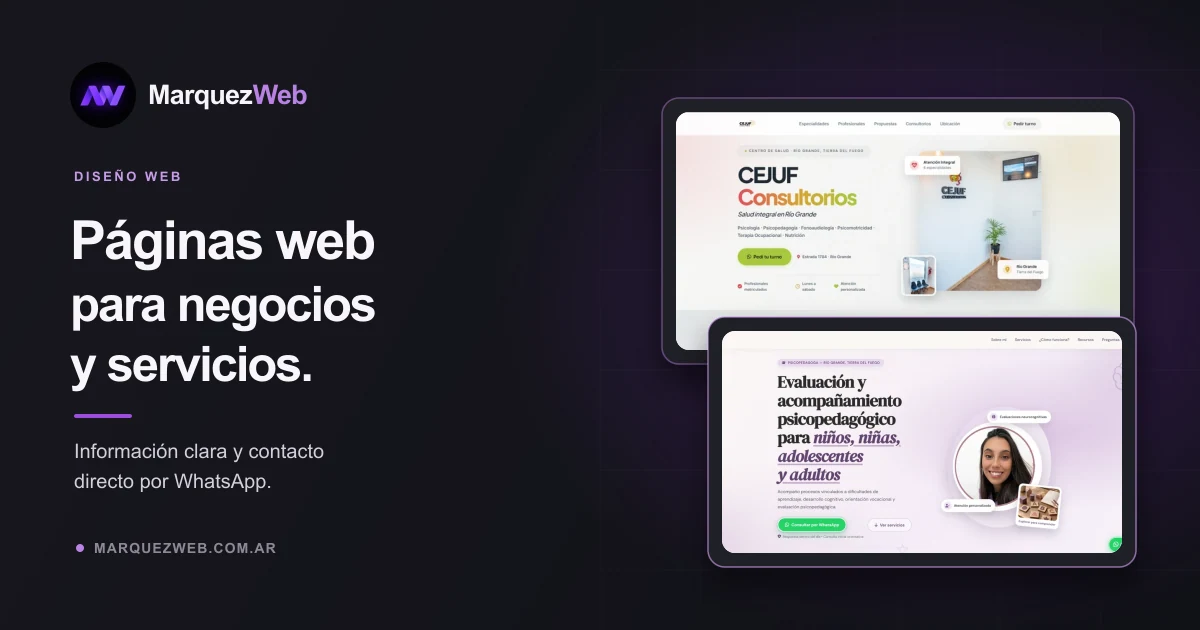
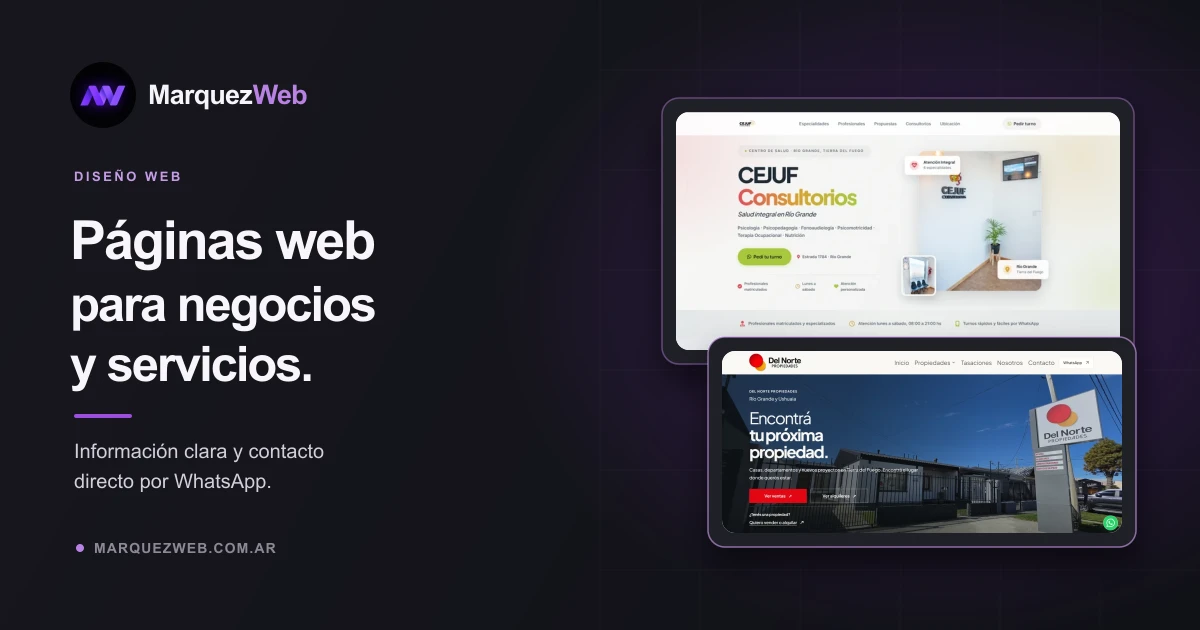
Update hero, social preview and Del Norte testimonial

Changed region(s): [[0.5858, 0.4825, 0.9558, 0.9048]]

diff --git a/index.html b/index.html
@@ -41,14 +41,14 @@
 <meta property="og:url" content="https://marquezweb.com.ar/"/>
 <meta property="og:title" content="MarquezWeb — Páginas web para negocios y servicios"/>
 <meta property="og:description" content="Páginas web para negocios y servicios: presencia propia, contenido claro y contacto directo por WhatsApp."/>
-<meta property="og:image" content="https://marquezweb.com.ar/og-image.webp?v=4"/>
+<meta property="og:image" content="https://marquezweb.com.ar/og-image.webp?v=5"/>
 <meta property="og:image:width" content="1200"/>
 <meta property="og:image:height" content="630"/>
 <meta property="og:image:alt" content="MarquezWeb: páginas web para negocios y servicios, con ejemplos reales de proyectos"/>
 <meta name="twitter:card" content="summary_large_image"/>
 <meta name="twitter:title" content="MarquezWeb — Páginas web para negocios y servicios"/>
 <meta name="twitter:description" content="Páginas web para negocios y servicios: presencia propia, contenido claro y contacto directo por WhatsApp."/>
-<meta name="twitter:image" content="https://marquezweb.com.ar/og-image.webp?v=4"/>
+<meta name="twitter:image" content="https://marquezweb.com.ar/og-image.webp?v=5"/>
 <meta name="twitter:image:alt" content="MarquezWeb: páginas web para negocios y servicios, con ejemplos reales de proyectos"/>
 
 <link rel="icon" href="logo.png"/>
@@ -480,7 +480,7 @@
     }
   }
 </style>
-<link rel="stylesheet" href="visual.css?v=20261027-2"/>
+<link rel="stylesheet" href="visual.css?v=20261027-3"/>
 <script type="application/ld+json">
 {
   "@context": "https://schema.org",
@@ -491,7 +491,7 @@
       "name": "MarquezWeb",
       "url": "https://marquezweb.com.ar/",
       "logo": { "@type": "ImageObject", "url": "https://marquezweb.com.ar/logo.png" },
-      "image": "https://marquezweb.com.ar/og-image.webp?v=4",
+      "image": "https://marquezweb.com.ar/og-image.webp?v=5",
       "description": "Páginas web para negocios y servicios: presencia propia, contenido claro, base preparada para buscadores y contacto directo por WhatsApp.",
       "email": "manuelmarquez2537@gmail.com",
       "telephone": "+54 9 3513 06-6687",
@@ -636,12 +636,12 @@
       <div class="hero-visual order-2 relative hero-visual-in lg:justify-self-end w-full">
         <div class="hero-showcase">
           <figure class="showcase-window showcase-main">
-            <figcaption class="showcase-toolbar"><span class="window-dots" aria-hidden="true"><i></i><i></i><i></i></span><span>CEJUF · Consultorios</span><span class="window-status" aria-hidden="true"></span></figcaption>
+            <figcaption class="showcase-toolbar"><span class="window-dots" aria-hidden="true"><i></i><i></i><i></i></span><a href="https://cejufconsultorios.com.ar/" target="_blank" rel="noopener noreferrer" aria-label="Abrir la web de CEJUF Consultorios">cejufconsultorios.com.ar</a><span class="window-status" aria-hidden="true"></span></figcaption>
             <img src="cejuf-hero.webp" alt="Proyecto real de MarquezWeb: página de CEJUF Consultorios" width="1200" height="563" loading="lazy" fetchpriority="low" decoding="async"/>
           </figure>
           <figure class="showcase-window showcase-secondary">
-            <figcaption class="showcase-toolbar"><span class="window-dots" aria-hidden="true"><i></i><i></i><i></i></span><span>camipsicope.com.ar</span></figcaption>
-            <img src="camipsicope-hero.webp" alt="Proyecto real de MarquezWeb: página de Cami Psicope" width="1200" height="530" loading="lazy" fetchpriority="low" decoding="async"/>
+            <figcaption class="showcase-toolbar"><span class="window-dots" aria-hidden="true"><i></i><i></i><i></i></span><a href="https://delnortepropiedades.com/" target="_blank" rel="noopener noreferrer" aria-label="Abrir la web de Del Norte Propiedades">delnortepropiedades.com</a></figcaption>
+            <img src="del-norte-propiedades-card.webp" alt="Proyecto real de MarquezWeb: página de Del Norte Propiedades" width="1400" height="637" loading="lazy" fetchpriority="low" decoding="async"/>
           </figure>
         </div>
       </div>
@@ -719,7 +719,7 @@
           <p><span class="text-error-alert font-bold block mb-0.5">Problema</span><span class="text-on-surface-variant">La información estaba dispersa principalmente en Instagram y no tenían un sitio centralizado.</span></p>
           <p><span class="text-primary font-bold block mb-0.5">Solución</span><span class="text-on-surface-variant">Página centralizada que organiza toda la información y guía al paciente hacia WhatsApp.</span></p>
         </div>
-        <a class="project-card-link w-full inline-flex justify-center items-center gap-2 bg-surface-variant hover:bg-surface-bright px-5 py-3 rounded text-sm font-bold border border-border-subtle transition-colors" href="https://manumarquez7.github.io/CEJUF-Consultorios/" target="_blank" rel="noopener noreferrer">Ver proyecto <span class="material-symbols-outlined text-base">open_in_new</span></a>
+        <a class="project-card-link w-full inline-flex justify-center items-center gap-2 bg-surface-variant hover:bg-surface-bright px-5 py-3 rounded text-sm font-bold border border-border-subtle transition-colors" href="https://cejufconsultorios.com.ar/" target="_blank" rel="noopener noreferrer">Ver proyecto <span class="material-symbols-outlined text-base">open_in_new</span></a>
       </div>
     </article>
 
@@ -770,6 +770,14 @@
     <h2 class="font-display text-2xl md:text-4xl text-on-surface" id="testimonios-titulo">Lo que dicen mis clientes</h2>
   </div>
   <div class="grid md:grid-cols-2 gap-6">
+    <figure class="reveal card-lift bg-surface-card border border-border-subtle rounded-xl p-8 flex flex-col">
+      <span class="material-symbols-outlined text-primary text-3xl mb-5" aria-hidden="true">format_quote</span>
+      <blockquote class="testimonial-quote text-on-surface-variant leading-relaxed">“Un placer trabajar con Manuel, super rápido el armado de la página en solo 24 hs, y después los cambios que pactamos también rápidos. Todo impecable, eficiente y prolijo. Muy contentos con nuestra nueva página web. Recomendado! 😃”</blockquote>
+      <figcaption class="text-sm font-bold text-on-surface mt-6 pt-5 border-t border-border-subtle">
+        <span class="testimonial-person"><img class="testimonial-avatar" src="testimonial-del-norte.webp" alt="Logo de Del Norte Propiedades" width="64" height="64" loading="lazy" decoding="async"/><span>Del Norte Propiedades</span></span>
+        <a class="inline-flex items-center gap-2 mt-2 py-3 text-primary hover:text-on-surface transition-colors" href="https://delnortepropiedades.com/" target="_blank" rel="noopener noreferrer" aria-label="Ver el proyecto de Del Norte Propiedades">Ver su proyecto <span class="material-symbols-outlined text-base" aria-hidden="true">open_in_new</span></a>
+      </figcaption>
+    </figure>
     <figure class="reveal reveal-d1 card-lift bg-surface-card border border-border-subtle rounded-xl p-8 flex flex-col">
       <span class="material-symbols-outlined text-primary text-3xl mb-5" aria-hidden="true">format_quote</span>
       <blockquote class="testimonial-quote text-on-surface-variant leading-relaxed">“Me encantó trabajar con MarquezWeb. Fue muy atento y paciente con cada cambio que le solicitaba. Logró entender perfectamente mi idea de la página, y gracias a eso ahora mis futuros pacientes pueden contactarse conmigo de forma mucho más fácil. Recomiendo 100% a MarquezWeb.”</blockquote>
@@ -783,7 +791,7 @@
       <blockquote class="testimonial-quote text-on-surface-variant leading-relaxed">“El servicio de la página nos encantó. Ahora nuestros pacientes pueden sacar turnos de forma inmediata y elegir con quién atenderse, porque todo está perfectamente detallado. Supo respetar los colores y el diseño de nuestra marca a la perfección. ¡Súper recomendado!”</blockquote>
       <figcaption class="text-sm font-bold text-on-surface mt-6 pt-5 border-t border-border-subtle">
         <span class="testimonial-person"><img class="testimonial-avatar" src="testimonial-cejuf.webp" alt="Logo de CEJUF Consultorios" width="64" height="64" loading="lazy" decoding="async"/><span>CEJUF Consultorios</span></span>
-        <a class="inline-flex items-center gap-2 mt-2 py-3 text-primary hover:text-on-surface transition-colors" href="https://manumarquez7.github.io/CEJUF-Consultorios/" target="_blank" rel="noopener noreferrer" aria-label="Ver el proyecto de CEJUF Consultorios">Ver su proyecto <span class="material-symbols-outlined text-base" aria-hidden="true">open_in_new</span></a>
+        <a class="inline-flex items-center gap-2 mt-2 py-3 text-primary hover:text-on-surface transition-colors" href="https://cejufconsultorios.com.ar/" target="_blank" rel="noopener noreferrer" aria-label="Ver el proyecto de CEJUF Consultorios">Ver su proyecto <span class="material-symbols-outlined text-base" aria-hidden="true">open_in_new</span></a>
       </figcaption>
     </figure>
     <figure class="reveal reveal-d3 card-lift bg-surface-card border border-border-subtle rounded-xl p-8 flex flex-col">

diff --git a/visual.css b/visual.css
@@ -61,7 +61,7 @@ a:focus-visible, button:focus-visible { outline: 2px solid #c0a3ff; outline-offs
 .window-dots i { width: 5px; height: 5px; background: #71627e; border-radius: 50%; }
 .window-status { margin-left: auto; width: 5px; height: 5px; background: #9d4edd; border-radius: 50%; }
 .showcase-window img { display: block; width: 100%; aspect-ratio: 1.9; object-fit: cover; object-position: center 30%; }
-.showcase-secondary img { aspect-ratio: 1.7; object-position: center 24%; }
+.showcase-secondary img { height: auto; aspect-ratio: auto; object-fit: contain; object-position: center; }
 .hero-in { animation-duration: .5s; }
 .hero-visual-in { animation-duration: .65s; animation-delay: .1s; }
 
